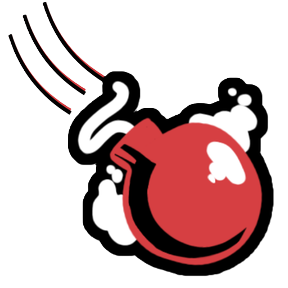
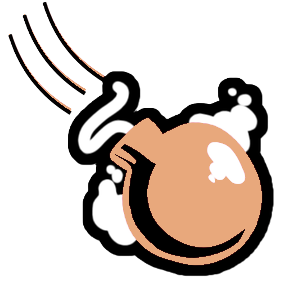
Frag tweaks
thief now steals frag
frag is a NK
Frag bomb holder dies if meeting is called

diff --git a/Roles/Neutral/NeutralKilling/FragRole.cs b/Roles/Neutral/NeutralKilling/FragRole.cs
@@ -1,0 +1,110 @@
+using System;
+using System.Linq;
+using AmongUs.GameOptions;
+using MiraAPI.GameOptions;
+using MiraAPI.Patches.Stubs;
+using MiraAPI.Roles;
+using MiraAPI.Utilities;
+using DivaniMods.Assets;
+using TownOfUs;
+using TownOfUs.Extensions;
+using TownOfUs.Modules.Localization;
+using TownOfUs.Modules.Wiki;
+using TownOfUs.Roles;
+using TownOfUs.Roles.Crewmate;
+using TownOfUs.Roles.Neutral;
+using TownOfUs.Utilities;
+using UnityEngine;
+
+namespace DivaniMods.Roles.Neutral.NeutralKilling;
+
+public sealed class FragRole(IntPtr cppPtr)
+    : NeutralRole(cppPtr), ITownOfUsRole, IWikiDiscoverable, IDoomable, ICrewVariant
+{
+    public static readonly Color FragColor = new Color32(255, 110, 60, 255);
+
+    public string RoleName => "Frag";
+    public string RoleDescription => "Start a hot-potato time bomb!";
+    public string RoleLongDescription =>
+        "Give a time bomb to a player.\n" +
+        "After a short random delay the timer starts.\n" +
+        "The holder can pass it on, but not back\n" +
+        "to the previous holder until it moves again.\n" +
+        "Win by outlasting all other killers.";
+    public Color RoleColor => FragColor;
+    public ModdedRoleTeams Team => ModdedRoleTeams.Custom;
+    public RoleAlignment RoleAlignment => RoleAlignment.NeutralKilling;
+
+    public DoomableType DoomHintType => DoomableType.Relentless;
+
+    public RoleBehaviour CrewVariant =>
+        RoleManager.Instance.GetRole((RoleTypes)RoleId.Get<TrapperRole>());
+
+    public string GetAdvancedDescription() => RoleLongDescription + MiscUtils.AppendOptionsText(GetType());
+
+    public bool HasImpostorVision => true;
+
+    public CustomRoleConfiguration Configuration => new(this)
+    {
+        Icon = DivaniAssets.FragIcon,
+        IntroSound = DivaniAssets.FragIntroSound,
+        MaxRoleCount = 1,
+        // Required so that on death the Frag's role is swapped to NeutralGhostRole
+        // (which remains in ModdedRoleTeams.Custom and whose WinConditionMet()
+        // delegates to GetRoleWhenAlive()). Without this the dead Frag gets the
+        // default CrewmateGhost role, which is filtered out by
+        // NeutralRoleWinCondition.GetActiveRolesOfTeam(Custom) and the win
+        // never triggers.
+        GhostRole = (RoleTypes)RoleId.Get<NeutralGhostRole>(),
+    };
+
+    public override void SpawnTaskHeader(PlayerControl playerControl)
+    {
+        if (playerControl != PlayerControl.LocalPlayer)
+        {
+            return;
+        }
+        ImportantTextTask orCreateTask = PlayerTask.GetOrCreateTask<ImportantTextTask>(playerControl, 0);
+        orCreateTask.Text =
+            $"{TownOfUsColors.Neutral.ToTextColor()}{TouLocale.GetParsed("NeutralKillingTaskHeader")}</color>";
+        orCreateTask.name = "NeutralRoleText";
+    }
+
+    public override void Deinitialize(PlayerControl targetPlayer)
+    {
+        RoleBehaviourStubs.Deinitialize(this, targetPlayer);
+        TouRoleUtils.ClearTaskHeader(Player);
+    }
+
+    public override bool CanUse(IUsable usable)
+    {
+        if (!GameManager.Instance.LogicUsables.CanUse(usable, Player))
+        {
+            return false;
+        }
+
+        var console = usable.TryCast<Console>()!;
+        return console == null || console.AllowImpostor;
+    }
+
+    /// <summary>
+    /// Glitch-style: Frag wins by being the last killer faction left. Requires every
+    /// non-Frag killer dead AND Frag count to be at least equal to the non-Frag alive count.
+    /// </summary>
+    public bool WinConditionMet()
+    {
+        var fragCount = CustomRoleUtils.GetActiveRolesOfType<FragRole>().Count(x => !x.Player.HasDied());
+
+        if (MiscUtils.KillersAliveCount > fragCount)
+        {
+            return false;
+        }
+
+        return fragCount >= Helpers.GetAlivePlayers().Count - fragCount;
+    }
+
+    public override bool DidWin(GameOverReason gameOverReason)
+    {
+        return WinConditionMet();
+    }
+}

diff --git a/Patches/FragBombState.cs b/Patches/FragBombState.cs
@@ -10,8 +10,9 @@ using MiraAPI.Utilities;
 using Reactor.Utilities;
 using DivaniMods.Assets;
 using DivaniMods.Buttons.Impostor.ImpostorKilling;
-using DivaniMods.Roles.Impostor.ImpostorKilling;
+using DivaniMods.Roles.Neutral.NeutralKilling;
 using DivaniMods.Utilities;
+using TownOfUs.Modules;
 using TownOfUs.Networking;
 using UnityEngine;
 
@@ -149,8 +150,74 @@ public static class FragBombState
 
     public static void ClearForMeeting()
     {
-        // Calling a meeting fully defuses the bomb. No one dies.
+        // Calling a meeting (or reporting a body) detonates the bomb on the current
+        // holder. We capture the IDs, clear bomb state immediately so the countdown/HUD
+        // stops, and schedule a coroutine that fires the murder via RpcCustomMurder
+        // shortly after the meeting intro animation completes. The RPC syncs to every
+        // client and TouMira's HandleMeetingMurder plays the kill animation in-cabin.
+        var holderIdCapture = HolderId;
+        var fragIdCapture = FragId;
+        var shouldKill = IsActive;
+
         Clear(startGiveCooldown: false);
+
+        if (shouldKill)
+        {
+            Coroutines.Start(CoExplodeInMeeting(holderIdCapture, fragIdCapture));
+        }
+    }
+
+    private static IEnumerator CoExplodeInMeeting(byte holderIdCapture, byte fragIdCapture)
+    {
+        // Wait until the meeting cabin's intro animation finishes so the kill
+        // plays as a proper in-meeting murder (Assassin-style cabin animation
+        // is wired up by TouMira's HandleMeetingMurder via AfterMurderEvent).
+        while (MeetingHud.Instance != null &&
+               MeetingHud.Instance.state == MeetingHud.VoteStates.Animating)
+        {
+            yield return null;
+        }
+
+        if (MeetingHud.Instance == null) yield break;
+
+        yield return new WaitForSeconds(0.25f);
+
+        // Only the host kicks off the RPC so the kill resolves exactly once.
+        if (!AmongUsClient.Instance.AmHost) yield break;
+
+        var holder = PlayerById(holderIdCapture);
+        if (holder == null || holder.Data == null || holder.Data.IsDead) yield break;
+
+        var frag = PlayerById(fragIdCapture);
+        var source = (frag != null && frag.Data != null && !frag.Data.IsDead) ? frag : holder;
+
+        // TouMira's HandleMeetingMurder hides the guess-crosshair button for the
+        // dead player on every screen *except* the murderer's, because assassins
+        // normally call HideSingle themselves inside their guess click handler.
+        // Frag's bomb doesn't go through that flow, so do it explicitly on the
+        // source's client so they can't still target the player they just bombed.
+        if (source.AmOwner)
+        {
+            MeetingMenu.Instances.Do(x => x.HideSingle(holder.PlayerId));
+        }
+
+        // MeetingCheck.ForMeeting matches Assassin's guess kill — required so the
+        // RPC isn't cancelled by MiraAPI's CustomMurder meeting filter. The cabin
+        // death animation is driven by TouMira's HandleMeetingMurder, so we skip
+        // showKillAnim/teleport here and just make sure the body is created for
+        // post-meeting reports.
+        source.RpcSpecialMurder(
+            holder,
+            MeetingCheck.ForMeeting,
+            isIndirect: true,
+            ignoreShield: false,
+            didSucceed: true,
+            resetKillTimer: false,
+            createDeadBody: true,
+            teleportMurderer: false,
+            showKillAnim: false,
+            playKillSound: true,
+            causeOfDeath: "BomberBomb");
     }
 
     public static void DestroyHud() => DivaniTimers.Remove(TimerId);
@@ -413,7 +480,7 @@ public static class FragBombState
 
         DivaniTimers.Set(
             TimerId,
-            "<b><color=#CC2222>PASS THE FRAG!</color></b>",
+            "<b><color=#e8a87c>PASS THE FRAG!</color></b>",
             GetFragRoleIcon(),
             Mathf.Max(0f, TimeRemaining),
             useLocalTimeDelta: false,

diff --git a/Buttons/Crewmate/CrewmatePower/PickpocketButton.cs b/Buttons/Crewmate/CrewmatePower/PickpocketButton.cs
@@ -12,6 +12,7 @@ using MiraAPI.Utilities.Assets;
 using Reactor.Networking.Attributes;
 using Reactor.Utilities;
 using DivaniMods.Assets;
+using DivaniMods.Buttons.Impostor.ImpostorKilling;
 using DivaniMods.Options;
 using DivaniMods.Patches;
 using DivaniMods.Roles.Crewmate.CrewmatePower;
@@ -87,7 +88,13 @@ public class PickpocketButton : TownOfUsTargetButton<PlayerControl>
         var usesLeft = thief.MaxStolenModifiers - thief.StolenModifierIds.Count;
         SetUses(usesLeft);
         
-        if (!thief.CanStealMore) return false;
+        // Bomb snatch is always allowed even at max stolen modifiers because
+        // it doesn't consume a slot — keep the button live when a holder is nearby.
+        if (!thief.CanStealMore)
+        {
+            var nearby = GetTarget();
+            if (nearby == null || !FragBombState.IsHolder(nearby.PlayerId)) return false;
+        }
         
         return base.CanUse();
     }
@@ -98,6 +105,18 @@ public class PickpocketButton : TownOfUsTargetButton<PlayerControl>
         if (player == null || Target == null) return;
         
         if (player.Data.Role is not ThiefRole thief) return;
+        
+        // Frag bomb pickpocket: if the target is the current bomb holder, snatch
+        // the bomb instead of stealing a modifier. Doesn't consume a stolen slot.
+        if (FragBombState.IsHolder(Target.PlayerId))
+        {
+            DivaniPlugin.Instance.Log.LogInfo($"Thief: Pickpocketing FRAG BOMB from {Target.Data.PlayerName}");
+            FragBombState.PlayGivePassSoundLocal();
+            FragBombButton.RpcPassBomb(player, player.PlayerId, Target.PlayerId, 0f, 0f);
+            ResetTarget();
+            return;
+        }
+        
         if (!thief.CanStealMore)
         {
             DivaniPlugin.Instance.Log.LogInfo("Thief: Already at max stolen modifiers!");

diff --git a/Buttons/Impostor/ImpostorKilling/FragBombButton.cs b/Buttons/Impostor/ImpostorKilling/FragBombButton.cs
@@ -6,7 +6,7 @@ using Reactor.Networking.Attributes;
 using DivaniMods.Assets;
 using DivaniMods.Options;
 using DivaniMods.Patches;
-using DivaniMods.Roles.Impostor.ImpostorKilling;
+using DivaniMods.Roles.Neutral.NeutralKilling;
 using TownOfUs.Buttons;
 using UnityEngine;
 
@@ -18,12 +18,13 @@ public class FragBombButton : TownOfUsTargetButton<PlayerControl>
 
     public override string Name => "Pass Bomb";
     public override float Cooldown => 0f;
+    public override float InitialCooldown => 0f;
     public override float EffectDuration => 0f;
     public override int MaxUses => 0;
     public override LoadableAsset<Sprite> Sprite => DivaniAssets.FragPassButton;
     public override float Distance => 1.5f;
     public override ButtonLocation Location { get; set; } = ButtonLocation.BottomRight;
-    public override Color TextOutlineColor => Palette.ImpostorRed;
+    public override Color TextOutlineColor => FragRole.FragColor;
     public override BaseKeybind Keybind => Keybinds.SecondaryAction;
 
     public override bool Enabled(RoleBehaviour? role)

diff --git a/Buttons/Impostor/ImpostorKilling/FragGiveBombButton.cs b/Buttons/Impostor/ImpostorKilling/FragGiveBombButton.cs
@@ -5,7 +5,7 @@ using MiraAPI.Utilities.Assets;
 using DivaniMods.Assets;
 using DivaniMods.Options;
 using DivaniMods.Patches;
-using DivaniMods.Roles.Impostor.ImpostorKilling;
+using DivaniMods.Roles.Neutral.NeutralKilling;
 using TownOfUs.Buttons;
 using UnityEngine;
 
@@ -31,7 +31,7 @@ public class FragGiveBombButton : TownOfUsTargetButton<PlayerControl>
     public override LoadableAsset<Sprite> Sprite => DivaniAssets.FragGiveButton;
     public override float Distance => 1.5f;
     public override ButtonLocation Location { get; set; } = ButtonLocation.BottomRight;
-    public override Color TextOutlineColor => Palette.ImpostorRed;
+    public override Color TextOutlineColor => FragRole.FragColor;
     public override BaseKeybind Keybind => Keybinds.SecondaryAction;
 
     public override bool Enabled(RoleBehaviour? role)

diff --git a/Options/Roles/Impostor/ImpostorKilling/FragOptions.cs b/Options/Roles/Impostor/ImpostorKilling/FragOptions.cs
@@ -1,7 +1,7 @@
 using MiraAPI.GameOptions;
 using MiraAPI.GameOptions.Attributes;
 using MiraAPI.Utilities;
-using DivaniMods.Roles.Impostor.ImpostorKilling;
+using DivaniMods.Roles.Neutral.NeutralKilling;
 
 namespace DivaniMods.Options;
 